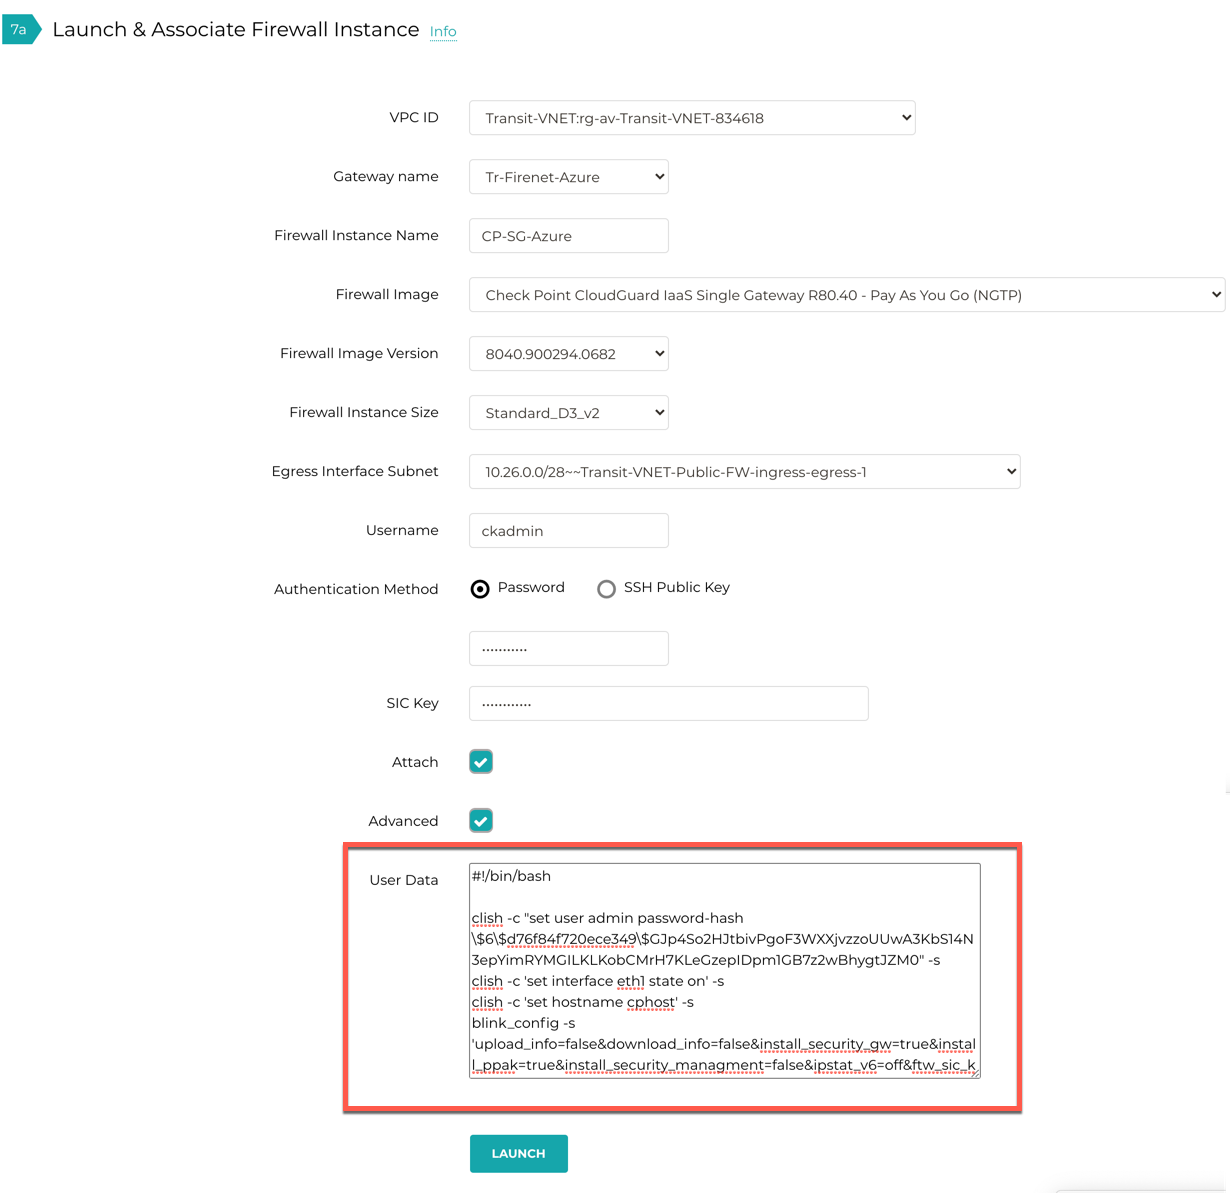
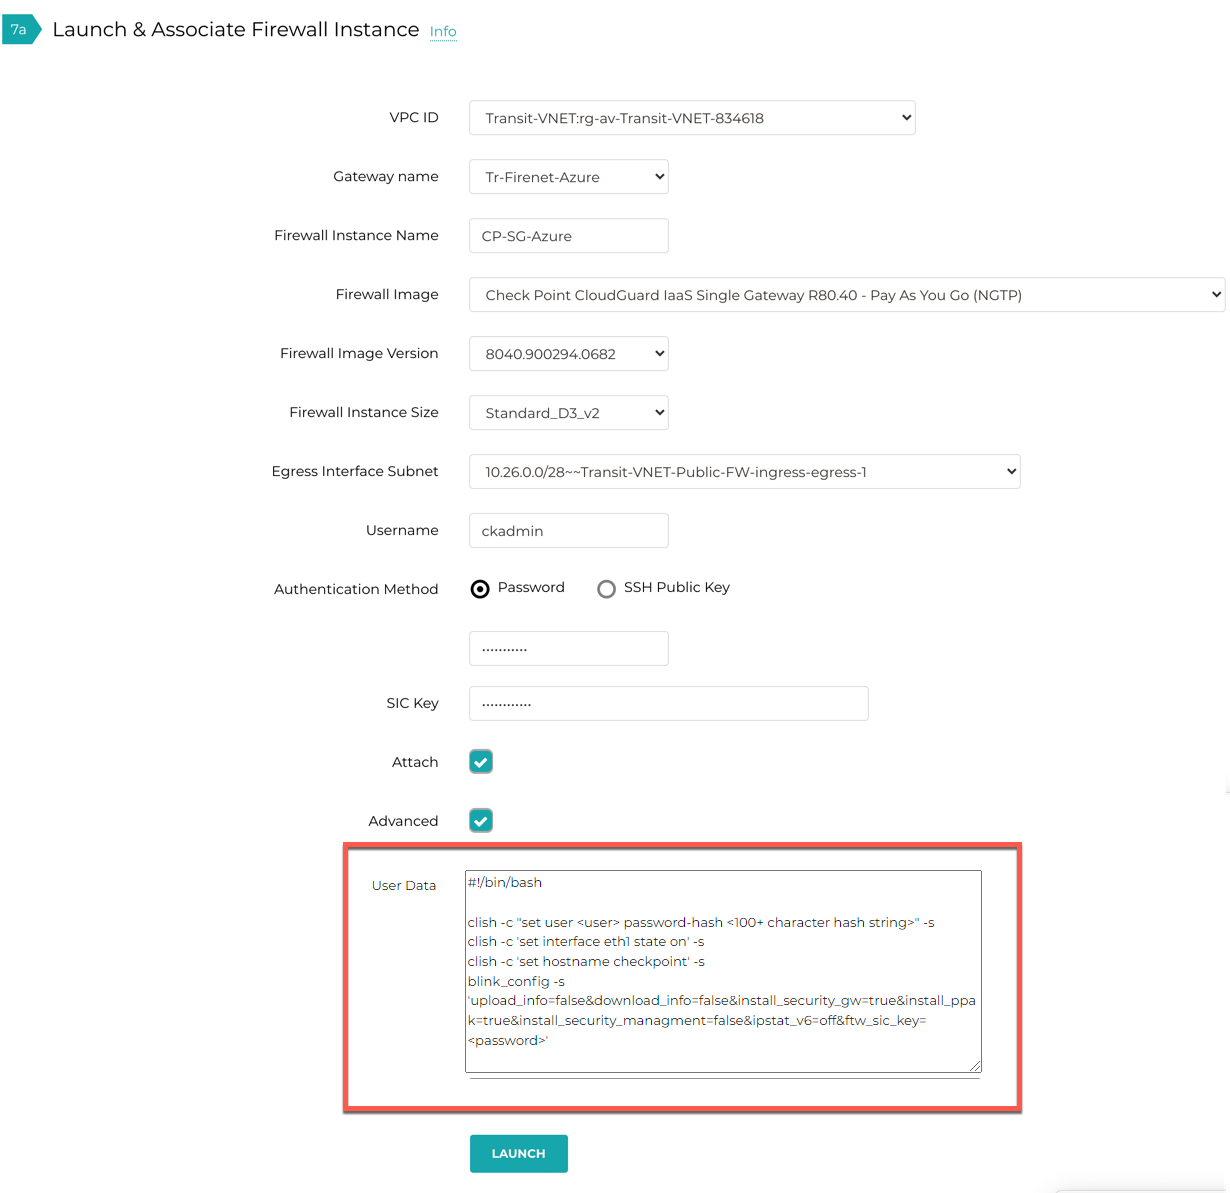
AVX-16136 – Default password changes.
AVX-16136 – Default password changes.

Changed region(s): [[0.3089, 0.7133, 0.8033, 0.8994]]

diff --git a/HowTos/fortigate_bootstrap_example_azure.rst b/HowTos/fortigate_bootstrap_example_azure.rst
@@ -22,7 +22,7 @@ Method 1: Configure Fortigate Firewall via User Data
 Follow the Aviatrix Firewall Network (FireNet) workflow
 to `Step 7a. <https://docs.aviatrix.com/HowTos/firewall_network_workflow.html#a-launch-and-associate-firewall-instance>`_. to launch the firewall instance.
 
-Go to Aviatrix Controller's console -> Firewall Network  -> Step -> Step 7a Launch & Associate Firewall Instance
+To Configure FortiGate using Custom Data, go to the Aviatrix Controller -> Firewall Network  -> Setup -> Launch & Associate Firewall Instance.
 
 Fill in the required fields. Click Advanced. Fill in the following parameters.
 
@@ -37,12 +37,12 @@ Sample Fortigate Bootstrap Configuration to configure firewall "Allow-all" polic
     ::
 
         # Simple Example Fortigate Bootstrap Configuration
-        # Not Necessary Fullfil the Requirement for any Customer
+        # Not Necessary Fulfill the Requirement for any Customer
 
         # Login Username and Password
         config system admin
             edit admin
-                set password Aviatrix123#
+                set password <password>
         end
 
         # System Hostname
@@ -103,7 +103,7 @@ Sample Fortigate Bootstrap Configuration to configure firewall "Allow-all" polic
 
 Launch the instance. Wait for 15 minutes for it to boot up and initialize.
 
-Login to the HTTPS interface of the public IP with username "admin", password "Aviatrix123#"
+Login to the HTTPS interface of the public IP with username "admin" and the password specified in the example Fortigate Bootstrap Configuration. For initial Fortigate login information, go to `Credentials for FortiGate Initial Login <https://aviatrix.zendesk.com/hc/en-us/articles/4417531104781>`_. You must be registered to access the Aviatrix Customer Support website. If you are not already registered, you can sign-up at https://support.aviatrix.com.
 
 Method 2: Configure Fortigate using Azure Blob
 ~~~~~~~~~~~~~~~~~~~~~~~~~~~~~~~~~~~~~~~~~~~~~~~~~
@@ -128,10 +128,6 @@ Login to Azure's console and create a storage account, and private container in 
 **2.1** The example init.conf file contains the "Allow All" setup. To download the file, click :download:`init.txt <fortigate_bootstrap_example_media/init-azure.txt>`.
 
 **2.2** For the example license.lic file (optional), click :download:`license.txt <fortigate_bootstrap_example_media/license.lic>`.
-
-.. Note::
-
-  In the example, the password is set to Aviatrix123#. You can customize it.
 
 **2.3** upload these two files in the blob. Please follow Step 4 in `this <https://docs.fortinet.com/document/fortigate/6.0.0/deploying-fortigate-on-azure/61731/bootstrapping-the-fortigate-cli-and-byol-license-at-initial-boot-up-using-user-data>`_ guide.
 
@@ -159,7 +155,7 @@ Example Screenshot:
 
 Launch the instance. Wait for 15 minutes for it to boot up and initialize. Please make sure to verify the RFC 1918 and Internet static route in Fortigate firewall.
 
-Login to the HTTPS interface of the public IP with username "admin", password "Aviatrix123#"
+Login to the HTTPS interface of the public IP with username "admin" and the password specified in the example Fortigate Bootstrap Configuration. For initial Fortigate login information, go to `ZENDESK_TITLE <ZENDESK_TITLE>`_. You must be registered to access the Aviatrix Customer Support website. If you are not already registered, you can sign-up at https://support.aviatrix.com.
 
 
 Ready to go!

diff --git a/HowTos/checkpoint_bootstrap_azure.rst b/HowTos/checkpoint_bootstrap_azure.rst
@@ -20,11 +20,11 @@ Configure Check Point Security Gateway using Custom Data
 ---------------------------------------------------------
 
 Follow the Aviatrix Firewall Network (FireNet) workflow
-to `Step 7a. <https://docs.aviatrix.com/HowTos/firewall_network_workflow.html#a-launch-and-associate-firewall-instance>`_. to launch the firewall instance.
+to `Step 7a. <https://docs.aviatrix.com/HowTos/firewall_network_workflow.html#a-launch-and-associate-firewall-instance>`_ to launch the firewall instance.
 
-Go to Aviatrix Controller's console -> Firewall Network  -> Step -> Step 7a Launch & Associate Firewall Instance
+To Configure Check Point Security Gateway using Custom Data, go to the Aviatrix Controller -> Firewall Network  -> Setup -> Launch & Associate Firewall Instance.
 
-Fill in the required fields. Click Advanced. Fill in the following parameters.
+Fill in the required fields. Click Advanced. Fill in the following parameters. You must specify a custom username and password, and generate a hash string for the password.
 
 ================================  ======================
 **Advanced Field**                **Example Value**
@@ -38,17 +38,17 @@ Sample Check Point Bootstrap Configuration to configure firewall "Allow-all" pol
 
         #!/bin/bash
 
-        clish -c "set user admin password-hash \$6\$d76f84f720ece349\$GJp4So2HJtbivPgoF3WXXjvzzoUUwA3KbS14N3epYimRYMGILKLKobCMrH7KLeGzepIDpm1GB7z2wBhygtJZM0" -s
+        clish -c "set user <user> password-hash <100+ character hash string>" -s
         clish -c 'set interface eth1 state on' -s
         clish -c 'set hostname checkpoint' -s
-        blink_config -s 'upload_info=false&download_info=false&install_security_gw=true&install_ppak=true&install_security_managment=false&ipstat_v6=off&ftw_sic_key=Aviatrix123#'
+        blink_config -s 'upload_info=false&download_info=false&install_security_gw=true&install_ppak=true&install_security_managment=false&ipstat_v6=off&ftw_sic_key=<password>'
 
 
 |cp_bootstrap_example|
 
 Launch the instance. Wait for 15 minutes for it to boot up and initialize.
 
-Login to the HTTPS interface of the public IP with username "admin", password "Aviatrix123#"
+Login to the HTTPS interface of the public IP with the username and password specified in the Bootstrap Configuration file.
 
 
 

diff --git a/HowTos/bootstrap_example.rst b/HowTos/bootstrap_example.rst
@@ -77,8 +77,8 @@ In AWS S3, at the top level create a bucket for bootstrap with a **unique** name
 **3.2** For the example init-cfg.txt file, click :download:`init-cfg.txt <bootstrap_example_media/init-cfg.txt>`. 
 
 .. Note::
+	In the example bootstrap.xml, you must specify custom usernames and passwords for the <https_interface_admin_username> and <api_admin_username>, and generate hash strings for the passwords.
 
-  In the example bootstrap.xml, the API admin user name is avxadmin and the password is Aviatrix123#. You can customize it.  
 
 **3.3** upload these two files to your config folder in the bootstrap-bucket. 
 
@@ -99,7 +99,7 @@ Bootstrap Bucket Name             bootstrap-bucket (must be a unique name in S3)
 
 Launch the VM-Series instance. Wait for 15 minutes for it to boot up and initialize. 
 
-Login to the HTTPS interface of VM-Series management public IP with username "admin", password "Aviatrix123#"
+Login to the HTTPS interface of VM-Series management public IP with the username and password specified in the bootstrap.xml file.
 
 
 5. Configure API Vendor Integration
@@ -109,8 +109,8 @@ In order for the Aviatrix Controller to automatically update firewall instance r
 
 Go to Controller -> Firewall Network -> Vendor Integration -> Firewall. Note the following fields.  
 
- -  Firewall Login User Name field, use "avxadmin" without the double quotes.
- -  Firewall Login Password field, use "Aviatrix123#" without the double quotes.
+ -  Firewall Login User Name field, use the username specified in the bootstrap.xml file.
+ -  Firewall Login Password field, use the password specified in the bootstrap.xml file.
 
 If you are manually configuring the firewall from scratch, follow `the instructions here <https://docs.aviatrix.com/HowTos/paloalto_API_setup.html>`_ to enable API access. 
 

diff --git a/HowTos/Setup_Transit_Network_Terraform.rst b/HowTos/Setup_Transit_Network_Terraform.rst
@@ -19,7 +19,7 @@ Setup Terraform Provider
 	# Configure Aviatrix provider
 	provider "aviatrix" {
 	  controller_ip = "1.2.3.4"
-	  username = "admin"
+	  username = "username"
 	  password = "password"
 	  version = "2.2"
 	}
@@ -43,7 +43,7 @@ Manages an Aviatrix Transit Gateway.
 
 	provider "aviatrix" {
 	  controller_ip = "1.2.3.4"
-	  username = "admin"
+	  username = "username"
 	  password = "password"
 	  version = "2.2"
 	}
@@ -90,7 +90,7 @@ Manages VGW connection
 
 	provider "aviatrix" {
 	  controller_ip = "1.2.3.4"
-	  username = "admin"
+	  username = "username"
 	  password = "password"
 	  version = "2.2"
 	}
@@ -134,7 +134,7 @@ Manages an Aviatrix Spoke Gateway
 
 	provider "aviatrix" {
 	  controller_ip = "1.2.3.4"
-	  username = "admin"
+	  username = "username"
 	  password = "password"
 	  version = "2.2"
 	}
@@ -184,6 +184,10 @@ Manages an Aviatrix Spoke Gateway
 Sample configuration to create complete transit VPC solution
 ============================================================
 
+.. Note::
+	In this example, you must specify the username and password, controller_ip, account_email and other parameters.
+
+
 ::
 
 	# Sample Aviatrix terraform configuration to create complete transit VPC solution
@@ -195,14 +199,14 @@ Sample configuration to create complete transit VPC solution
 	# Edit to enter your controller's IP, username and password to login with.
 	provider "aviatrix" {
 	  controller_ip = "w.x.y.z"
-	  username = "admin"
-	  password = "Aviatrix123%23"
+	  username = "username"
+	  password = "password"
 	  version = "2.2"
 	}
 
 	resource "aviatrix_account" "test_acc" {
 	  account_name = "devops"
-	  account_password = "Aviatrix123"
+	  account_password = "account_password"
 	  account_email = "abc@xyz.com"
 	  cloud_type = 1
 	  aws_account_number = "123456789012"

diff --git a/HowTos/pan_bootstrap_example_azure.rst b/HowTos/pan_bootstrap_example_azure.rst
@@ -47,8 +47,7 @@ Follow `Step 2.3 <https://docs.paloaltonetworks.com/vm-series/9-1/vm-series-depl
 **2.2** For the example init-cfg.txt file, click :download:`init-cfg.txt <bootstrap_example_media/init-cfg.txt>`.
 
 .. Note::
-
-  In the example bootstrap.xml, the API admin user name is avxadmin and the password is Aviatrix123#. You can customize it.
+	In the example bootstrap.xml, you must specify custom usernames and passwords for the <https_interface_admin_username> and <api_admin_username>, and generate hash strings for the passwords.
 
 **2.3** upload these two files to your config folder under Storage Account-> File Shares.
 
@@ -72,7 +71,7 @@ Share-directory (Optional)          Config (Optional)
 
 Launch the VM-Series instance. Wait for 15 minutes for it to boot up and initialize.
 
-Login to the HTTPS interface of VM-Series management public IP with username "admin", password "Aviatrix123#"
+Login to the HTTPS interface of VM-Series management public IP with the username and password specified in the bootstrap.xml file.
 
 
 4. Configure API Vendor Integration
@@ -82,8 +81,8 @@ In order for the Aviatrix Controller to automatically update firewall instance r
 
 Go to Controller -> Firewall Network -> Vendor Integration -> Firewall. Note the following fields.
 
- -  Firewall Login User Name field, use "avxadmin" without the double quotes.
- -  Firewall Login Password field, use "Aviatrix123#" without the double quotes.
+ -  Firewall Login User Name field, use the username specified in the bootstrap.xml file.
+ -  Firewall Login Password field, use the password specified in the bootstrap.xml file.
 
 If you are manually configuring the firewall from scratch, follow `the instructions here <https://docs.aviatrix.com/HowTos/paloalto_API_setup.html>`_ to enable API access.
 

diff --git a/HowTos/FAQ.rst b/HowTos/FAQ.rst
@@ -485,14 +485,14 @@ Here is the best practice procedure to follow:
 What IP addresses does Controller need to reach out to?
 ---------------------------------------------------------
 
-Please see `Aviatrix Products: Access to external FQDN required <https://aviatrix.zendesk.com/hc/en-us/articles/4417312119437-Aviatrix-Products-Access-to-external-FQDN-required>`_. 
+Please see `Required Access for External Sites <https://aviatrix.zendesk.com/hc/en-us/articles/4417312119437-Aviatrix-Products-Access-to-external-FQDN-required>`_. 
 
 .. note::
 	You must be registered to access the Aviatrix Customer Support website. If you are not already registered, you can sign-up at https://support.aviatrix.com.
 
 What IP addresses does an Aviatrix gateway  need to reach out to?
 ----------------------------------------------------------------------
-Please see `Aviatrix Products: Access to external FQDN required <https://aviatrix.zendesk.com/hc/en-us/articles/4417312119437-Aviatrix-Products-Access-to-external-FQDN-required>`_. 
+Please see `Required Access for External Sites <https://aviatrix.zendesk.com/hc/en-us/articles/4417312119437-Aviatrix-Products-Access-to-external-FQDN-required>`_. 
 
 .. note::
 	You must be registered to access the Aviatrix Customer Support website. If you are not already registered, you can sign-up at https://support.aviatrix.

diff --git a/HowTos/config_CheckPointVM.rst b/HowTos/config_CheckPointVM.rst
@@ -123,7 +123,11 @@ The URL takes you to the CheckPoint Firewall Gaia Portal you just launched.
 
 .. note::
 
-  Login with Username **admin** and the password **Aviatrix123#**. Otherwise, ssh to firewall, configure the firewall password manually and then login via user-defined pasword.
+  For initial Checkpoint login information, go to ``Credentials for Checkpoint Initial Login <https://aviatrix.zendesk.com/hc/en-us/articles/4417552852109>`_. You must be registered to access the Aviatrix Customer Support website. If you are not already registered, you can sign-up at https://support.aviatrix.com.
+
+
+Starting from Release 5.4, launching CheckPoint firewall instances from the Aviatrix Controller automatically initiates its onboarding process. For initial login information, go to `Credentials for Checkpoint Initial Login <https://aviatrix.zendesk.com/hc/en-us/articles/4417552852109>`_. You must be registered to access the Aviatrix Customer Support website. If you are not already registered, you can sign-up at https://support.aviatrix.com. 
+
 
 4. Initialize and Login CheckPoint Firewall via Gaia Portal
 -------------------------------------------------------------

diff --git a/HowTos/fortigate_bootstrap_example.rst b/HowTos/fortigate_bootstrap_example.rst
@@ -73,7 +73,8 @@ In AWS S3, at the top level create a bucket for bootstrap with a **unique** name
 
 .. Note::
 
-  In the example, the password is set to Aviatrix123#. You can customize it.  
+  You must specify the password in the example init.conf file. For initial Fortigate login information, go to `Credentials for FortiGate Initial Login <https://aviatrix.zendesk.com/hc/en-us/articles/4417531104781>`_. You must be registered to access the Aviatrix Customer Support website. If you are not already registered, you can sign-up at https://support.aviatrix.com.
+
 
 **3.3** upload these two files to your config folder in the bootstrap-fortigate-bucket. 
 
@@ -94,7 +95,7 @@ Bootstrap Bucket Name             fortigate-bootstrap-bucket (must be a unique n
 
 Launch the instance. Wait for 15 minutes for it to boot up and initialize. 
 
-Login to the HTTPS interface of the public IP with username "admin", password "Aviatrix123#"
+Login to the HTTPS interface of the public IP with username "admin" and the password specified in the example init.conf file. You should change the username and password after the initial login.
 
 
 5. Configure Static Routes

diff --git a/HowTos/CloudN_workflow.rst b/HowTos/CloudN_workflow.rst
@@ -180,7 +180,7 @@ This is a rare case. It is documented here for completeness. Skip if the Control
 Step 2.5 Managed CloudN management port outbound access
 --------------------------------------------------------------------------------------------------------------------------
 
-You must use the specified FDQN, IP address, and ports for Managed CloudN (registered to the Controller) and Standalone CloudN (de-registered from the Controller) implementations. Please see `Aviatrix Products: Access to external FQDN required <https://aviatrix.zendesk.com/hc/en-us/articles/4417312119437-Aviatrix-Products-Access-to-external-FQDN-required>`_. 
+You must use the specified FDQN, IP address, and ports for Managed CloudN (registered to the Controller) and Standalone CloudN (de-registered from the Controller) implementations. Please see `Required Access for External Sites <https://aviatrix.zendesk.com/hc/en-us/articles/4417312119437-Aviatrix-Products-Access-to-external-FQDN-required>`_. 
 
 	.. note::
 	

diff --git a/HowTos/CloudN_insane_mode.rst b/HowTos/CloudN_insane_mode.rst
@@ -114,7 +114,7 @@ CloudN Interface       Private IP Address  Subnet Mask  Default Gateway  MTU Siz
 
 2.1 Internet Access
 ~~~~~~~~~~~~~~~~~~~~~~~~
-A CloudN appliance does not require a public IP address, but the management port requires outbound internet access on the management port for software upgrade. Please see `Aviatrix Products: Access to external FQDN required <https://aviatrix.zendesk.com/hc/en-us/articles/4417312119437-Aviatrix-Products-Access-to-external-FQDN-required>`_. 
+A CloudN appliance does not require a public IP address, but the management port requires outbound internet access on the management port for software upgrade. Please see `Required Access for External Sites <https://aviatrix.zendesk.com/hc/en-us/articles/4417312119437-Aviatrix-Products-Access-to-external-FQDN-required>`_. 
 
 .. note::
 	You must be registered to access the Aviatrix Customer Support website. If you are not already registered, you can sign-up at https://support.aviatrix.com.

diff --git a/HowTos/transit_firenet_workflow_aws.rst b/HowTos/transit_firenet_workflow_aws.rst
@@ -193,9 +193,13 @@ eth1 (on subnet -dmz-firewall)                                   LAN or Trusted 
 
 Note that firewall instance eth1 is on the same subnet as FireNet gateway eth2 interface.
 
+
+
+
+
 .. important::
 
-    Starting from Release 5.4, launching CheckPoint firewall instances from the Aviatrix Controller automatically initiates its onboarding process. After completing this step, user should be able to login to the CheckPoint console with username **admin** and password **Aviatrix123#**.
+     Starting from Release 5.4, launching CheckPoint firewall instances from the Aviatrix Controller automatically initiates its onboarding process. For initial login information, go to `Credentials for Checkpoint Initial Login <https://aviatrix.zendesk.com/hc/en-us/articles/4417552852109>`_. You must be registered to access the Aviatrix Customer Support website. If you are not already registered, you can sign-up at https://support.aviatrix.com.
 
 
 .. note::

diff --git a/HowTos/firewall_network_workflow.rst b/HowTos/firewall_network_workflow.rst
@@ -312,7 +312,7 @@ Note that firewall instance eth1 is on the same subnet as FireNet gateway eth2 i
 
 .. important::
 
-  Starting from Release 5.4, launching CheckPoint firewall instances from the Aviatrix Controller automatically initiates its onboarding process. After completing this step, user should be able to login to the CheckPoint console with username **admin** and password **Aviatrix123#**.
+  Starting from Release 5.4, launching CheckPoint firewall instances from the Aviatrix Controller automatically initiates its onboarding process. For initial login information, go to `Credentials for Checkpoint Initial Login <https://aviatrix.zendesk.com/hc/en-us/articles/4417552852109>`_. You must be registered to access the Aviatrix Customer Support website. If you are not already registered, you can sign-up at https://support.aviatrix.com. 
 
 
 7a.2 Launch and Associate More
